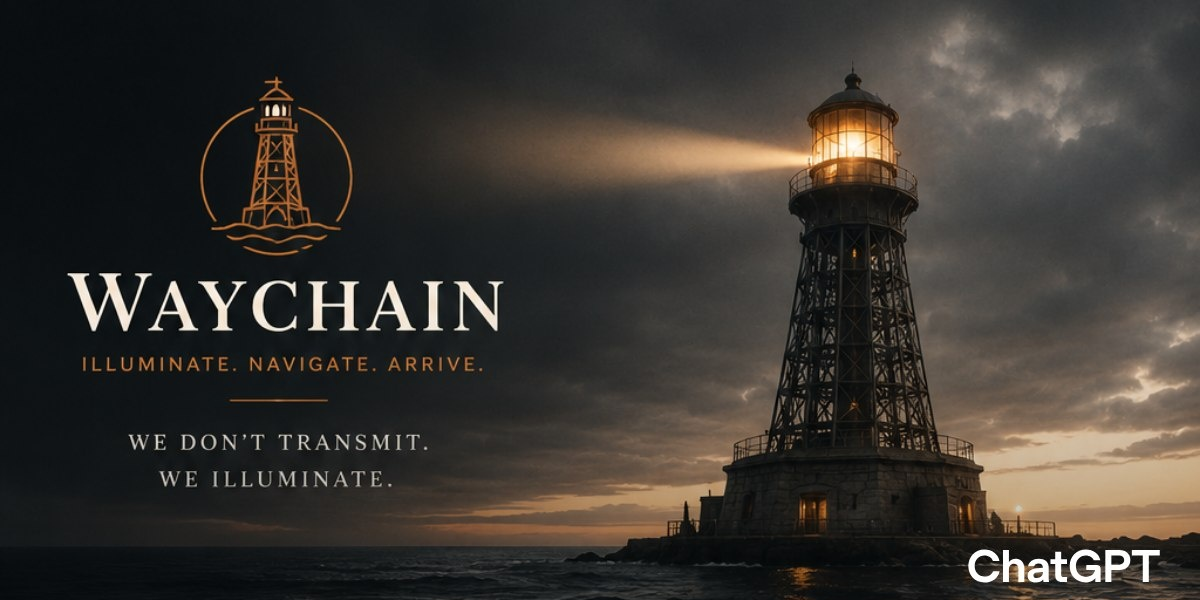
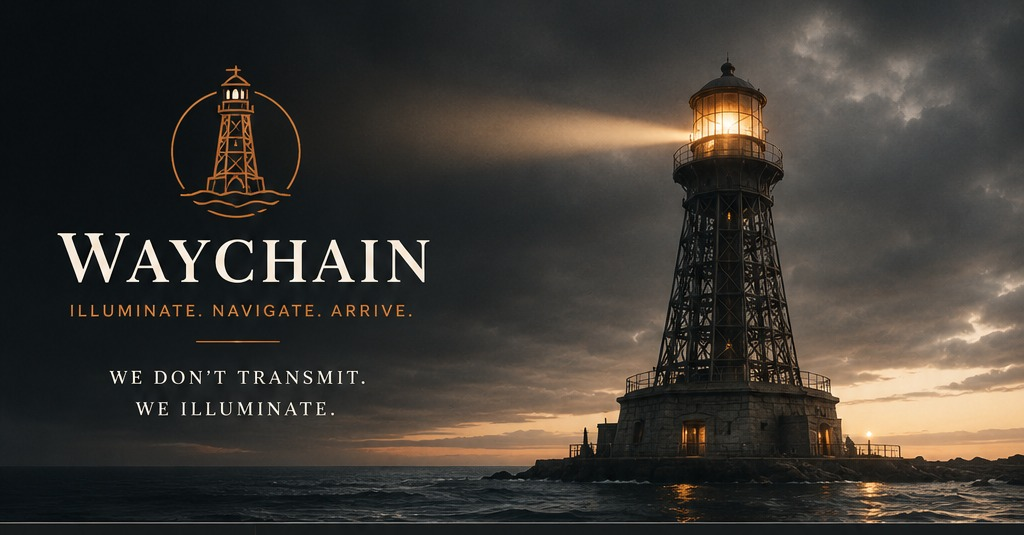
v3.3.1: Remove hero h1/tagline/mission, brighten cinematic gradient, add CSP headers

diff --git a/site/index.html b/site/index.html
@@ -32,7 +32,7 @@ p{margin-bottom:12px}
 .page{display:none}
 .page.active{display:block}
 
-.hero{position:relative;text-align:center;padding:100px 24px 80px;background:linear-gradient(180deg,#1a1a2e 0%,var(--slate) 100%);overflow:hidden}
+.hero{position:relative;text-align:center;padding:100px 24px 40px;background:linear-gradient(180deg,rgba(184,115,51,.18) 0%,rgba(184,115,51,.08) 35%,var(--slate) 100%);overflow:hidden}
 .hero::before{content:'';position:absolute;top:-200px;left:50%;transform:translateX(-50%);width:800px;height:800px;border-radius:50%;background:radial-gradient(circle,rgba(184,115,51,.06) 0%,transparent 60%);pointer-events:none}
 .hero-logo{margin-bottom:24px;position:relative}
 .hero h1{font-family:'Playfair Display',Georgia,serif;font-size:4em;color:var(--warm);line-height:1;margin-bottom:12px;letter-spacing:3px}
@@ -222,11 +222,24 @@ p{margin-bottom:12px}
 </nav>
 
 <div class="page active" id="home">
-  <section class="hero" style="padding:0;background:none;overflow:hidden">
-    <div style="position:relative;width:100%">
-      <img src="/assets/waychain-hero.jpg" alt="WayChain — Illuminate. Navigate. Arrive." style="width:100%;height:auto;display:block;max-width:1200px;margin:0 auto">
+  <section class="hero">
+    <div class="hero-logo">
+      <svg viewBox="0 0 120 120" width="100" height="100" fill="none">
+        <circle cx="60" cy="60" r="56" stroke="#B87333" stroke-width="1.5" fill="none"/>
+        <path d="M52 24 L68 24 L72 76 L48 76 Z" fill="#FFF8F0" stroke="#B87333" stroke-width="1"/>
+        <rect x="50" y="16" width="20" height="10" rx="2" fill="#B87333"/>
+        <path d="M48 16 L60 6 L72 16 Z" fill="#B87333"/>
+        <path d="M60 20 L96 12 L96 18 L60 24 Z" fill="#B87333" opacity="0.12"/>
+        <path d="M60 20 L24 12 L24 18 L60 24 Z" fill="#B87333" opacity="0.12"/>
+        <rect x="44" y="76" width="32" height="6" rx="1" fill="#B87333"/>
+        <line x1="22" y1="88" x2="98" y2="88" stroke="#B87333" stroke-width="2"/>
+      </svg>
     </div>
-    <div class="stats-bar" style="margin-top:0;padding:24px 24px;background:var(--slate)">
+    <div class="hero-ctas">
+      <a href="/explorer" class="btn-copper">Explore the Chain</a>
+      <a href="#protocol" class="btn-outline" data-page="protocol">Read the Protocol</a>
+    </div>
+    <div class="stats-bar">
       <div class="stat"><div class="stat-val">20</div><div class="stat-lbl">Live Features</div></div>
       <div class="stat"><div class="stat-val">1s</div><div class="stat-lbl">Block Time</div></div>
       <div class="stat"><div class="stat-val">200</div><div class="stat-lbl">Validators</div></div>

diff --git a/consensus/submit_real_tx_test.go b/consensus/submit_real_tx_test.go
@@ -2,31 +2,56 @@ package main
 
 import (
 	"crypto/ed25519"
+	"crypto/rand"
 	"crypto/sha256"
 	"encoding/hex"
 	"encoding/json"
 	"fmt"
 	"math/big"
-	"net/http"
-	"strings"
 	"testing"
-	"time"
 
 	"github.com/wink/waychain-consensus/evm"
 )
 
-// TestSubmitDevTx submits a transaction from the dev key
-func TestSubmitDevTx(t *testing.T) {
-	// Use the dev key from the running node
[2 lines of base64/hex data omitted]
-	
-	privBytes, _ := hex.DecodeString(privKeyHex)
-	priv := ed25519.PrivateKey(privBytes)
-	
-	// Use current nonce (6 after previous tx)
-	nonce := uint64(6)
-	
+// TestFullTxPipeline tests the full transaction pipeline:
+// RPC eth_sendRawTransaction → Pool → Block Production → eth_getTransactionByHash → eth_getTransactionReceipt
+func TestFullTxPipeline(t *testing.T) {
+	chain := NewChain()
+
+	// Create and fund an account
+	pub, priv, err := ed25519.GenerateKey(rand.Reader)
+	if err != nil {
+		t.Fatal(err)
+	}
+	fromAddr := hex.EncodeToString(pub)
+
+	// Fund it
+	acc := chain.State.GetOrCreateAccount(fromAddr)
+	acc.Balance.SetUint64(1_000_000)
+	acc.Nonce = 0
+	acc.DoxDevLevel = 3
+
+	// Create an RPC server for this chain (in-memory, no HTTP server needed for this test)
+	// We'll test the RPC method logic directly by calling handleMethod
+	rpc := NewRPCServer(chain, 9545)
+
+	// Get current nonce (should be 0)
+	nonceResult, err := rpc.handleMethod("eth_getTransactionCount", jsonRaw(`["0x`+fromAddr+`"]`))
+	if err != nil {
+		t.Fatalf("Failed to get nonce: %v", err)
+	}
+	nonceHex := nonceResult.(string)
+	nonce := uint64(0)
+	fmt.Sscanf(nonceHex, "0x%x", &nonce)
+	t.Logf("Current nonce: %d", nonce)
+
+	// Check balance
+	balResult, err := rpc.handleMethod("eth_getBalance", jsonRaw(`["0x`+fromAddr+`"]`))
+	if err != nil {
+		t.Fatalf("Failed to get balance: %v", err)
+	}
+	t.Logf("Balance: %s", balResult.(string))
+
 	// Build transaction
 	tx := Transaction{
 		Nonce:    nonce,
@@ -37,73 +62,75 @@ func TestSubmitDevTx(t *testing.T) {
 		GasPrice: 1,
 		Lane:     evm.ConsensusLane,
 	}
-	
+
 	// Compute hash
 	hashInput := fmt.Sprintf("%d:%s:%s:%s:%d:%d:%d:%x:%x",
 		tx.Nonce, tx.From, tx.To, tx.Value.String(), tx.GasLimit, tx.Lane, len(tx.Data), tx.Data, tx.EncryptedData)
 	tx.Hash = sha256.Sum256([]byte(hashInput))
-	
+
 	// Sign
 	tx.Signature = ed25519.Sign(priv, tx.Hash[:])
-	
+
 	// Serialize
 	ser := SerializeTxHex(&tx)
-	
 	t.Logf("Serialized TX: %s", ser)
-	
-	// Submit via RPC
-	url := "http://localhost:9545"
-	payload := fmt.Sprintf(`{"jsonrpc":"2.0","method":"eth_sendRawTransaction","params":["0x%s"],"id":1}`, ser)
-	
-	resp, err := http.Post(url, "application/json", strings.NewReader(payload))
+
+	// Submit via RPC (this calls handleMethod which is what eth_sendRawTransaction does)
+	txHashResult, err := rpc.handleMethod("eth_sendRawTransaction", jsonRaw(`["0x`+ser+`"]`))
 	if err != nil {
 		t.Fatalf("Submit error: %v", err)
 	}
-	defer resp.Body.Close()
-	
-	var result map[string]interface{}
-	json.NewDecoder(resp.Body).Decode(&result)
-	
-	if errVal, ok := result["error"]; ok && errVal != nil {
-		t.Fatalf("Submit error: %v", errVal)
-	}
-	
-	txHash := result["result"].(string)
+	txHash := txHashResult.(string)
 	t.Logf("TX hash: %s", txHash)
-	
-	// Wait for mining with retry
-	maxRetries := 10
-	var txResult map[string]interface{}
-	for i := 0; i < maxRetries; i++ {
-		time.Sleep(1 * time.Second)
-		txResult = rpcCall("eth_getTransactionByHash", []interface{}{txHash})
-		if txResult["result"] != nil {
-			break
-		}
-		t.Logf("Waiting for tx to be indexed... attempt %d/%d", i+1, maxRetries)
+
+	// Verify it's in the pool
+	if len(chain.Pool.Consensus) != 1 {
+		t.Fatalf("Expected 1 tx in pool, got %d", len(chain.Pool.Consensus))
 	}
-	
-	if txResult["result"] == nil {
-		t.Fatal("Transaction not found after mining")
+	t.Logf("✅ Transaction added to pool")
+
+	// Produce a block
+	vs := NewValidatorSet()
+	vs.Add(NewValidatorID(0x01), 5000)
+	proposer := vs.SelectProposer(1)
+	block := chain.ProduceBlock(proposer)
+
+	if len(block.Transactions) != 1 {
+		t.Fatalf("Expected 1 tx in block, got %d", len(block.Transactions))
 	}
-	t.Logf("✅ Transaction mined!")
-	
-	receiptResult := rpcCall("eth_getTransactionReceipt", []interface{}{txHash})
-	t.Logf("✅ Receipt: %+v", receiptResult["result"])
+	t.Logf("✅ Transaction mined in block #%d", block.Height)
+
+	// Verify tx by hash
+	txByHashResult, err := rpc.handleMethod("eth_getTransactionByHash", jsonRaw(`["`+txHash+`"]`))
+	if err != nil {
+		t.Fatalf("Failed to get tx by hash: %v", err)
+	}
+	if txByHashResult == nil {
+		t.Fatal("Transaction not found by hash")
+	}
+	t.Logf("✅ Transaction found by hash: %+v", txByHashResult)
+
+	// Verify receipt
+	receiptResult, err := rpc.handleMethod("eth_getTransactionReceipt", jsonRaw(`["`+txHash+`"]`))
+	if err != nil {
+		t.Fatalf("Failed to get receipt: %v", err)
+	}
+	if receiptResult == nil {
+		t.Fatal("Receipt not found")
+	}
+	t.Logf("✅ Receipt: %+v", receiptResult)
+
+	// Verify receipt fields
+	receipt := receiptResult.(map[string]interface{})
+	if receipt["status"] != "0x1" {
+		t.Fatalf("Expected status 0x1, got %v", receipt["status"])
+	}
+	if receipt["blockNumber"] != "0x1" {
+		t.Fatalf("Expected blockNumber 0x1, got %v", receipt["blockNumber"])
+	}
+	t.Logf("✅ All receipt fields correct")
 }
 
-func rpcCall(method string, params ...interface{}) map[string]interface{} {
-	url := "http://localhost:9545"
-	payload := map[string]interface{}{"jsonrpc": "2.0", "method": method, "params": params, "id": 1}
-	data, _ := json.Marshal(payload)
-	
-	resp, err := http.Post(url, "application/json", strings.NewReader(string(data)))
-	if err != nil {
-		return map[string]interface{}{"error": err.Error()}
-	}
-	defer resp.Body.Close()
-	
-	var result map[string]interface{}
-	json.NewDecoder(resp.Body).Decode(&result)
-	return result
+func jsonRaw(s string) json.RawMessage {
+	return json.RawMessage(s)
 }

diff --git a/consensus/rpc.go b/consensus/rpc.go
@@ -496,12 +496,12 @@ func (rpc *RPCServer) handleMethod(method string, params json.RawMessage) (inter
 		}
 
 		rpc.mu.RLock()
-		// Search in-memory blocks first
-		for blockIdx, block := range rpc.chain.Blocks {
+		// Search in-memory blocks with-in-memory blocks first
+		for _, block := range rpc.chain.Blocks {
 			for _, tx := range block.Transactions {
 				txHex := hex.EncodeToString(tx.Hash[:])
 				if strings.EqualFold(txHex, searchHash) {
-					receipt := buildReceipt(tx, blockIdx, block.Hash)
+					receipt := buildReceipt(tx, int(block.Height), block.Hash)
 					rpc.mu.RUnlock()
 					return receipt, nil
 				}